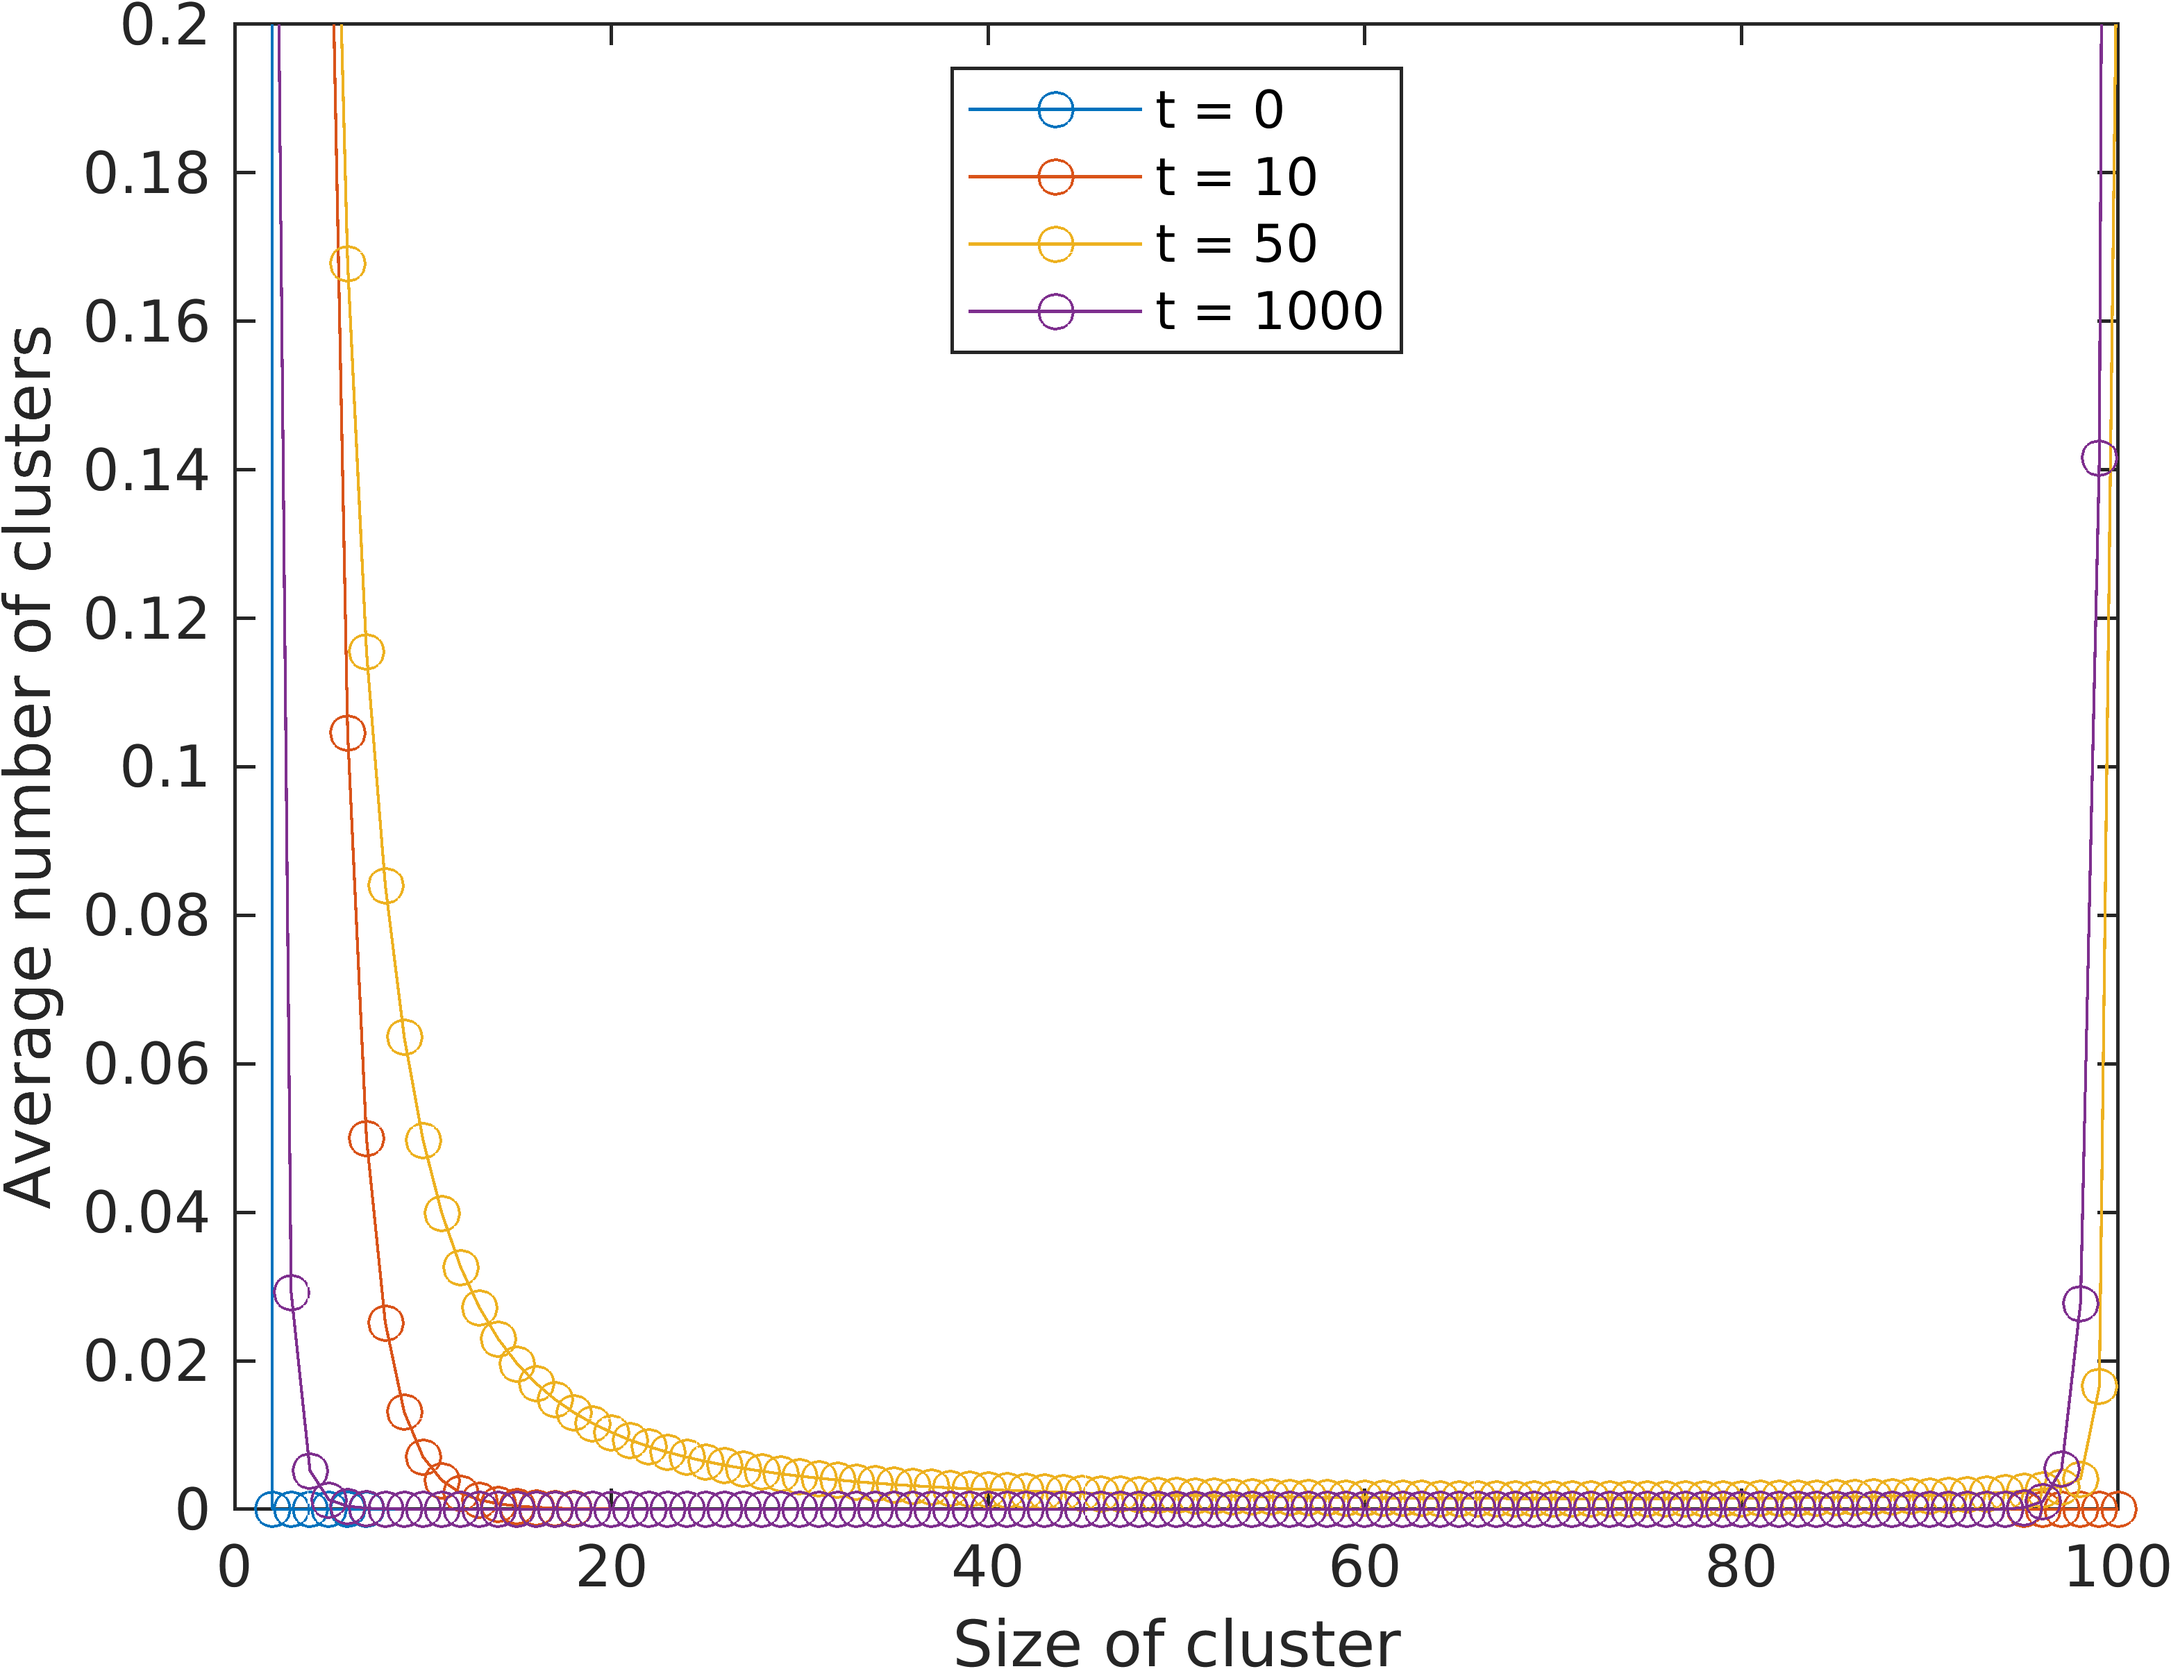
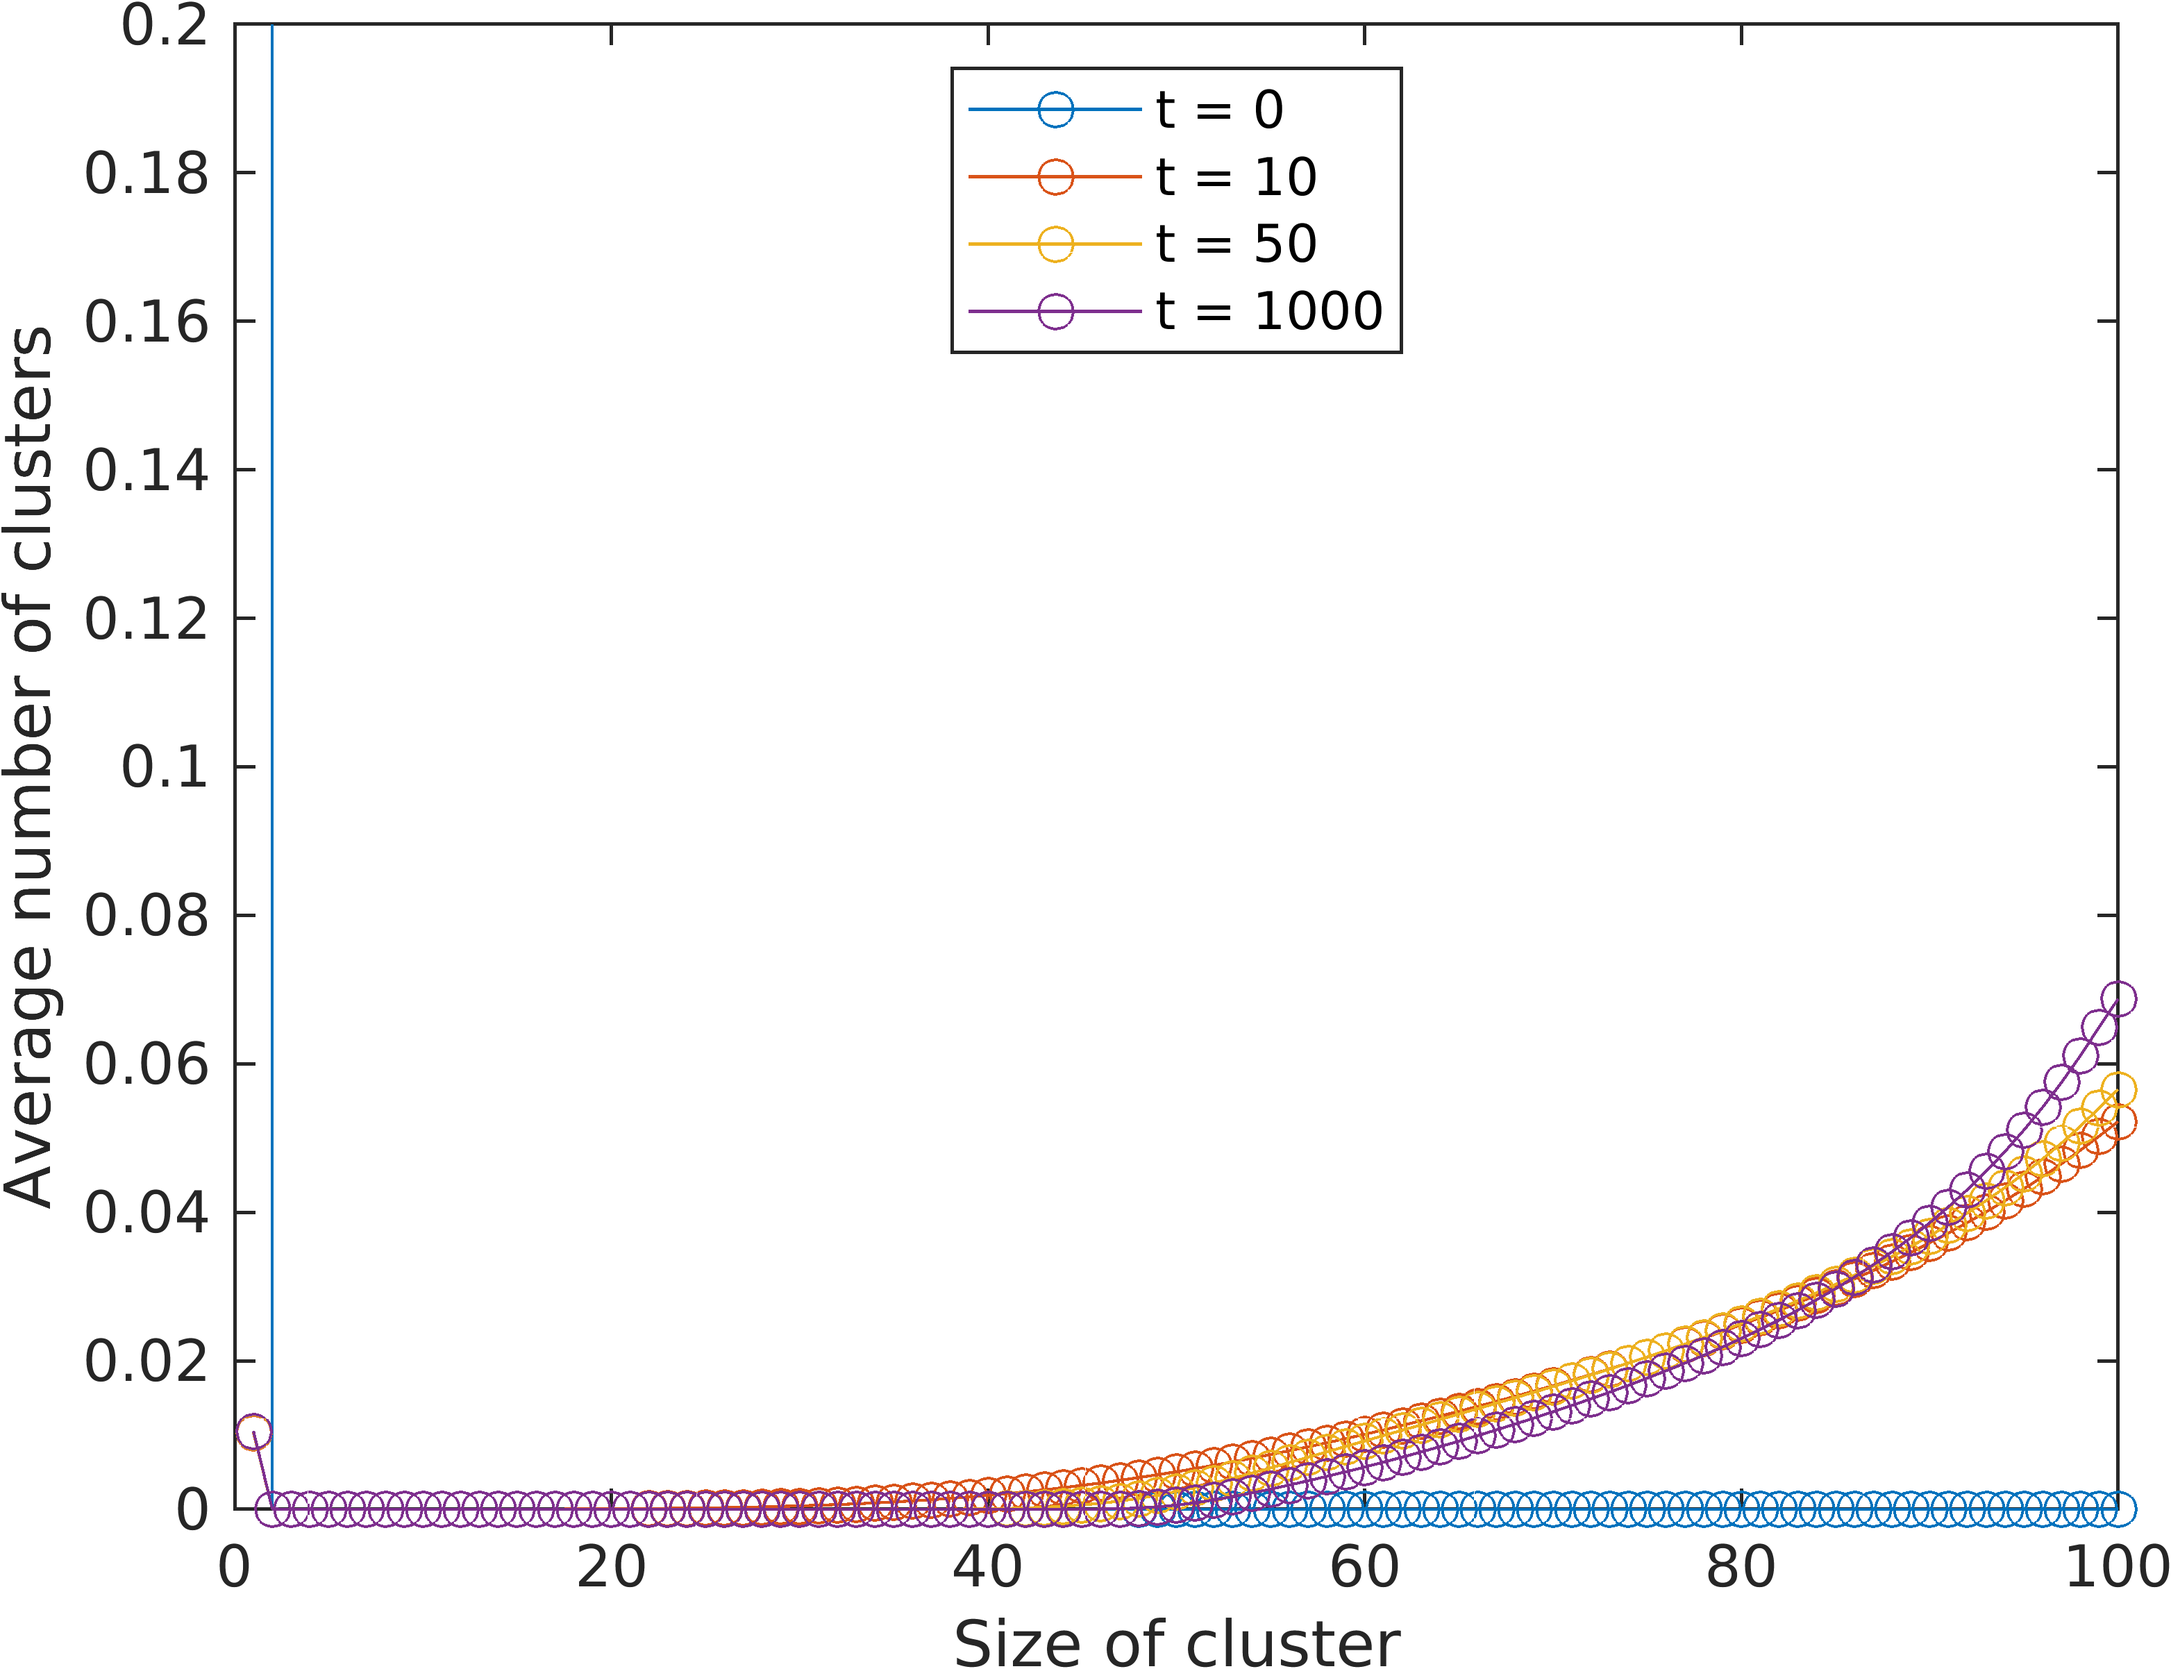
Plot for sweep over lambda added

diff --git a/homogeneous/coag_and_shed_bar/Compare kernel/plots_kernel_compare.py b/homogeneous/coag_and_shed_bar/Compare kernel/plots_kernel_compare.py
@@ -1,0 +1,59 @@
+import scipy.io
+import numpy as np
+import matplotlib.pyplot as plt
+import matplotlib.image as mpimg
+
+img1 = mpimg.imread('K_cst_IC_10_t_1000.png')
+img2 = mpimg.imread('K_cst_IC_100_t_1000.png')
+img3 = mpimg.imread('K_cst_IC_100_t_1000.png')
+img4 = mpimg.imread('K_mult_IC_10_t_1000.png')
+img5 = mpimg.imread('K_mult_IC_100_t_100000_almost_steady_zoomed_out.png')
+img6 = mpimg.imread('K_mult_IC_1000_t_100000_almost_steady_zoomed_out.png')
+img7 = mpimg.imread('K_diff_IC_10_t_1000.png')
+img8 = mpimg.imread('K_diff_IC_100_t_1000.png')
+img9 = mpimg.imread('K_diff_IC_1000_t_1000.png')
+
+
+cols = ['q = {}'.format(col) for col in ['IC 10', 'IC 100', 'IC 1000']]
+rows = ['b = {}'.format(row) for row in ['K cst', 'K mult', 'K diff']]
+
+
+
+fig, axes = plt.subplots(nrows=3, ncols=3, figsize=(12, 8))
+
+for ax, col in zip(axes[0], cols):
+    ax.set_title(col)
+
+for ax, row in zip(axes[:,0], rows):
+    ax.set_ylabel(row, rotation=90, size='large')
+
+
+plt.setp(plt.gcf().get_axes(), xticks=[], yticks=[])
+plt.tight_layout()
+plt.subplot(3,3,1)
+plt.imshow(img1)
+
+plt.subplot(3,3,2)
+plt.imshow(img2)
+
+plt.subplot(3,3,3)
+plt.imshow(img3)
+
+plt.subplot(3,3,4)
+plt.imshow(img4)
+
+plt.subplot(3,3,5)
+plt.imshow(img5)
+
+plt.subplot(3,3,6)
+plt.imshow(img6)
+
+plt.subplot(3,3,7)
+plt.imshow(img7)
+
+plt.subplot(3,3,8)
+plt.imshow(img8)
+
+plt.subplot(3,3,9)
+plt.imshow(img9)
+plt.show()

diff --git a/homogeneous/coag_and_shed_bar/plots_lam_sweep.py b/homogeneous/coag_and_shed_bar/plots_lam_sweep.py
@@ -1,0 +1,55 @@
+import scipy.io
+import numpy as np
+import matplotlib.pyplot as plt
+import matplotlib.image as mpimg
+
+img1 = mpimg.imread('K_cst_IC_100_lam_0.01.png')
+img2 = mpimg.imread('K_cst_IC_100_lam_0.1.png')
+img3 = mpimg.imread('K_cst_IC_100_lam_1.png')
+img4 = mpimg.imread('K_cst_IC_100_lam_10.png')
+img5 = mpimg.imread('K_cst_IC_100_lam_100.png')
+
+
+#cols = ['q = {}'.format(col) for col in ['0.1', '0.01', '0.001']]
+#rows = ['b = {}'.format(row) for row in ['0.1', '0.01', '0.001']]
+
+
+
+fig, axes = plt.subplots(nrows=2, ncols=3, figsize=(12, 8))
+
+# for ax, col in zip(axes[0], cols):
+#     ax.set_title(col)
+
+# for ax, row in zip(axes[:,0], rows):
+#     ax.set_ylabel(row, rotation=90, size='large')
+
+
+#plt.setp(plt.gcf().get_axes(), xticks=[], yticks=[])
+#plt.tight_layout()
+plt.subplot(2,3,1)
+plt.imshow(img1)
+
+plt.subplot(2,3,2)
+plt.imshow(img2)
+
+plt.subplot(2,3,3)
+plt.imshow(img3)
+
+plt.subplot(2,3,4)
+plt.imshow(img4)
+
+plt.subplot(2,3,5)
+plt.imshow(img5)
+
+# plt.subplot(3,3,6)
+# plt.imshow(img6)
+
+# plt.subplot(3,3,7)
+# plt.imshow(img7)
+
+# plt.subplot(3,3,8)
+# plt.imshow(img8)
+
+# plt.subplot(3,3,9)
+# plt.imshow(img9)
+plt.show()

diff --git a/homogeneous/cell_coagulation.m b/homogeneous/cell_coagulation.m
@@ -5,8 +5,8 @@ function coagulation = cell_coagulation(n,i,b,t,N_t,N)
         %D_i = 1/i;
         %D_j = 1/j;
         %out = b*(1/scaling)*(1/(D_i+D_j));
-        out = b*(1/scaling)*i*j;
-        %out = b*1;
+        %out = b*(1/scaling)*i*j;
+        out = b*1;
     end
 
 % Coagulation term calculation

diff --git a/homogeneous/extended_smol.m b/homogeneous/extended_smol.m
@@ -49,7 +49,7 @@ n0(1) = 100;
 
 %% Running of solver
 tmin = 0;
-tmax = 400000;
+tmax = 10000;
 tspan = [tmin tmax];
 
 [t,n] = ode45(@ext_smol, tspan, n0);
@@ -81,7 +81,7 @@ global N
 % global d
 % global q
 b = 1;
-lambda = 0.1;
+lambda = 0.01;
 q = lambda/b;
 %scaling_q = 0;
 %for l = 1:100

diff --git a/homogeneous/population_plots.m b/homogeneous/population_plots.m
@@ -73,7 +73,7 @@ function [] = population_plots(n,t,tspan, derivative_norm)
 
     figure(6)
     bar(1:N, n(end,1:N))
-    ylim([0 8])
+    ylim([0 0.1])
     xlabel('Size of cluster') 
     ylabel('Number of clusters') 
     %legend('t = 1000', 't = 10000', 't = end', location = 'north')
